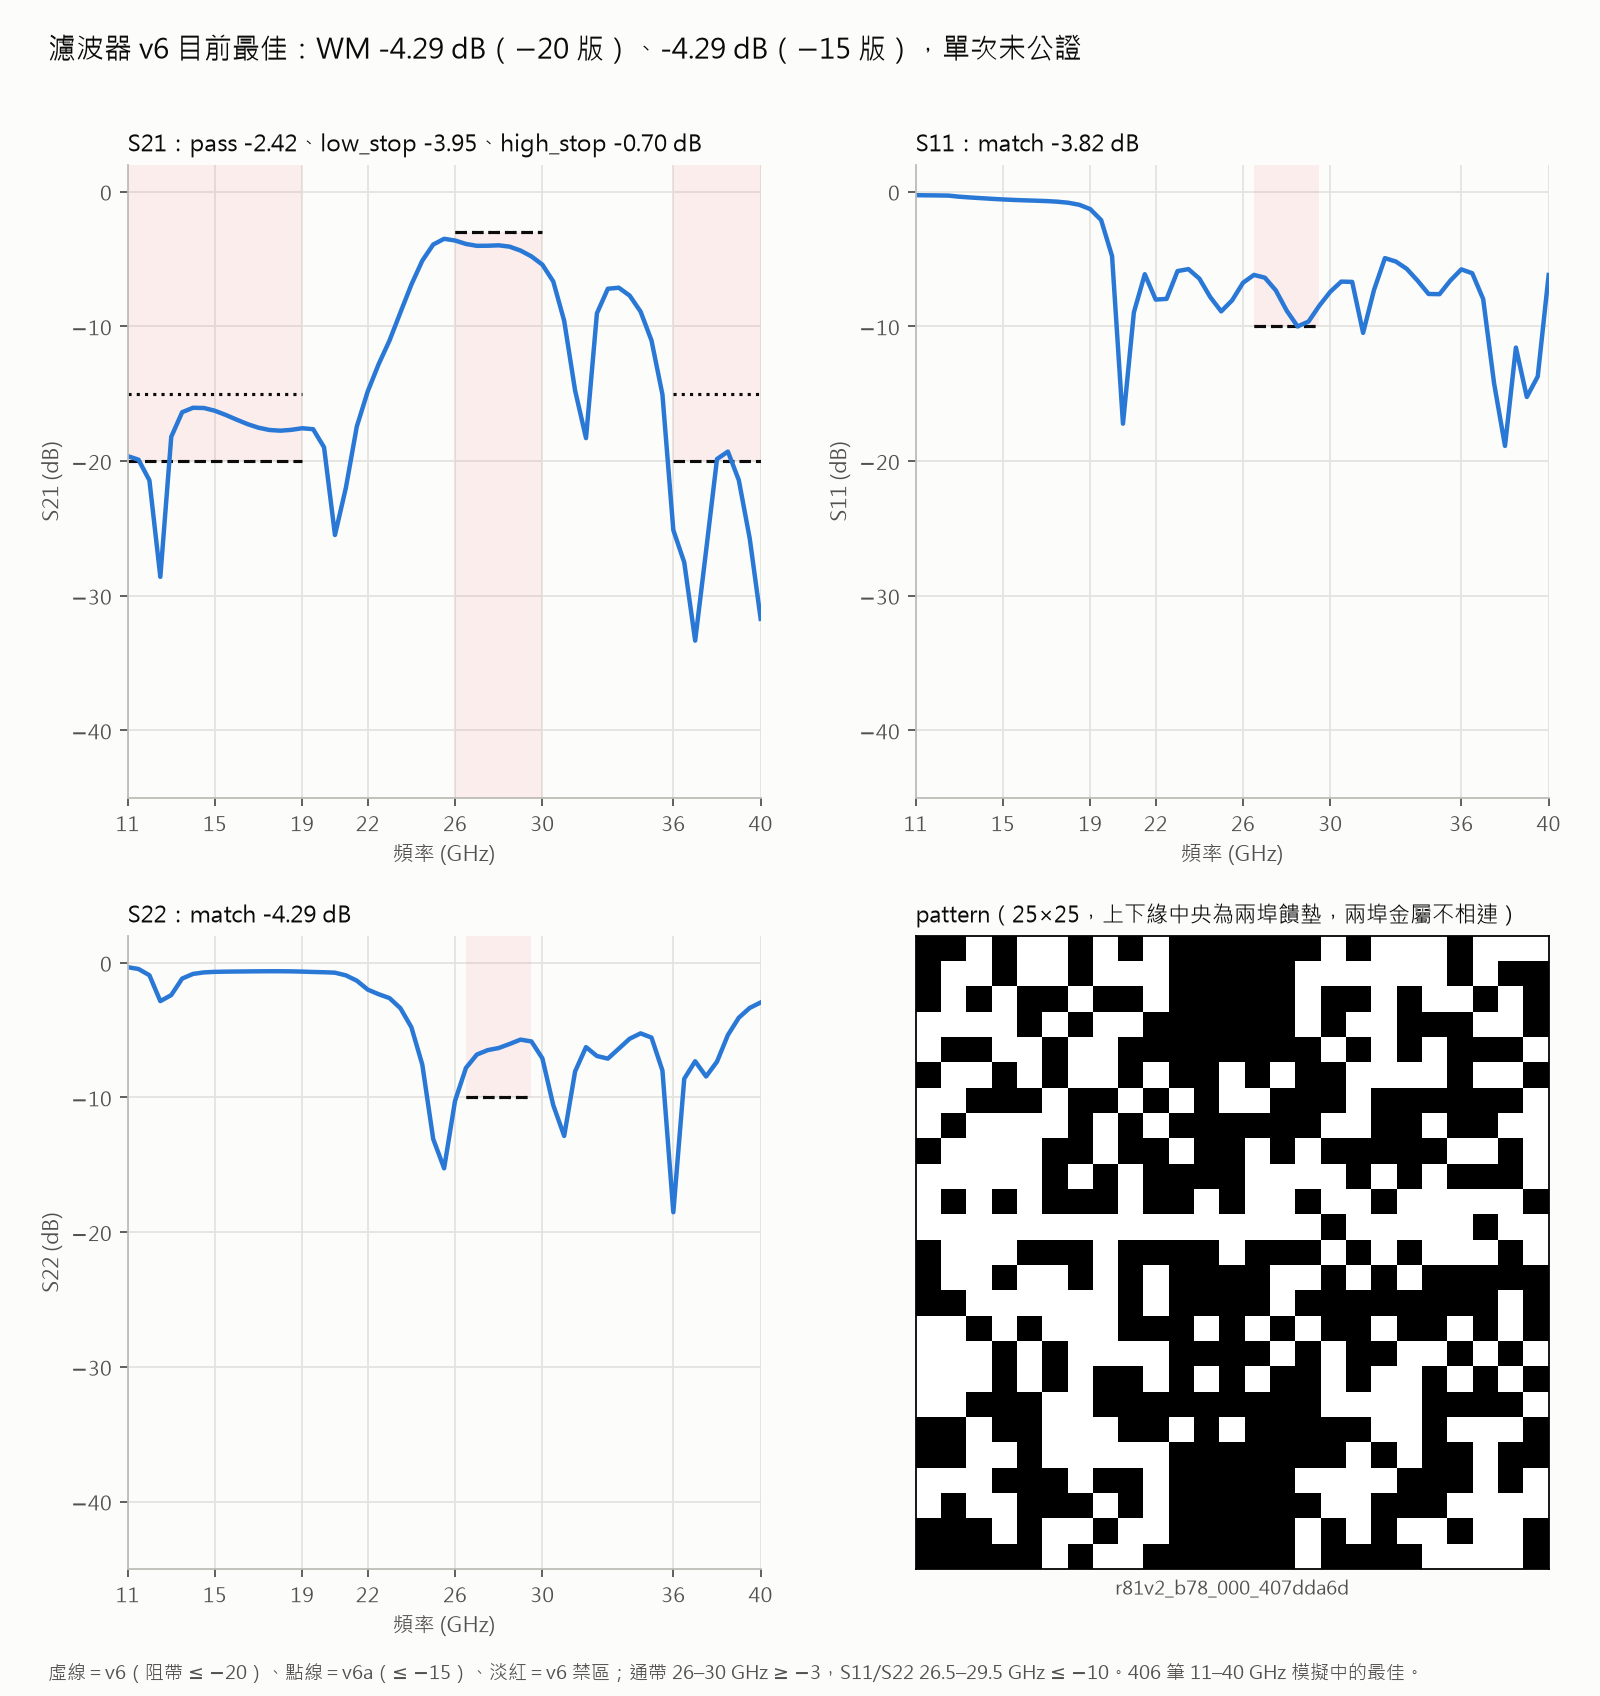
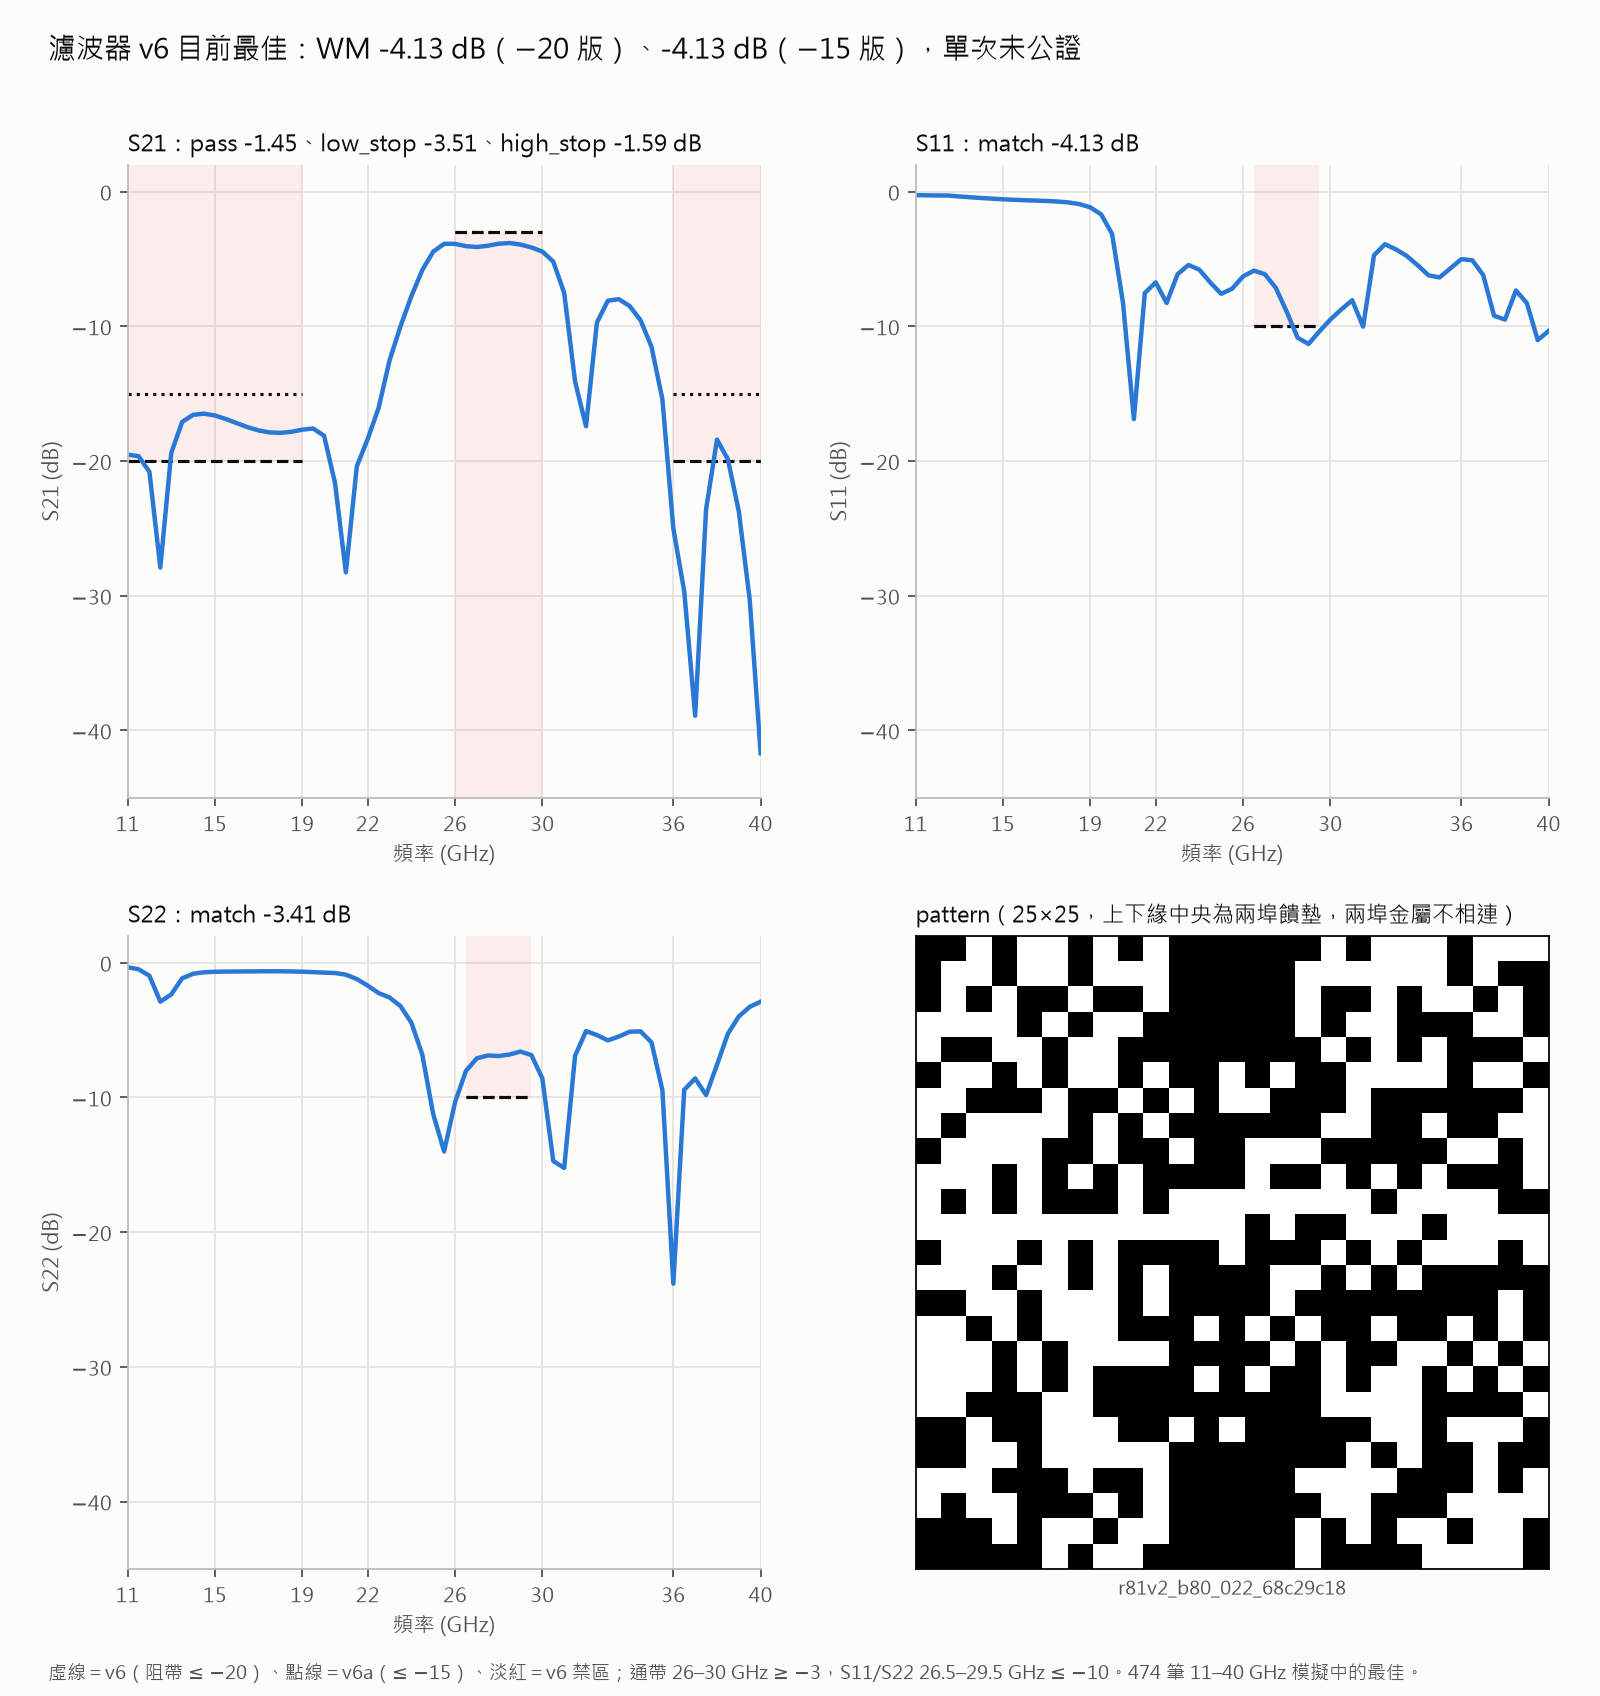
log(r81/r82): v6 −4.13（單次，push）；加抽寬頻配對回測自身前半 ρ 0.23 仍未達判準；對稱 b07 恢復排程

diff --git a/docs/log/round-81-wide-filter.md b/docs/log/round-81-wide-filter.md
@@ -571,3 +571,10 @@ Ricky 要求 S11、S22 一起達標（沿用 R81 原匹配條件 26.5–29.5 GHz
 - 結論：零成本錨定只小幅改善（誤差少約 0.3 dB、小步排序 0.16→0.30），預測前半段仍排不出高下，每批取前 5 的實測平均 −7.46→−7.14、取前 10 反而 −7.18→−7.35。錨定後仍偏樂觀 2.3 dB——不是父代共同偏差，而是 SM 預測「翻幾格的變化量」本身就錯（訓練目標是絕對曲線，變化量是兩次預測相減的殘差）。
 - 限制：評估集是原始 SM 選出來的候選（有選樣偏差），錨定若實際用來選樣會挑到不同的設計，離線無法完全評估。
 - 下一步（Ricky 同意的第 2 步）：直接以實測配對訓練「變化量模型」（輸入父代圖、翻轉位置、父代實測曲線 → 輸出曲線變化），配對距離分層取樣到 50 格內，按設計整筆留出與按時間切分驗證、按距離分組報告；第 3 步上下文接龍（多筆鄰居、多種上下文挑法）待第 2 步成立再做。
+
+## 2026-10-19 21:04：b78–b80 推移持續出最佳，v6 −4.13（單次）
+
+- b78 前 3 名全為 push（−4.25／−4.28／−4.29）；b79 最佳 −4.76 無進展；b80 `r81v2_b80_022_68c29c18`（push，random 臂，父 `b76_019`）WM **−4.13**：通帶 −1.45、低阻 −3.51、高阻 −1.59、S11 −4.13、S22 −3.41。前 3 名（−4.13／−4.22／−4.24）全為 push。
+- 最佳來自 random 臂，再次說明 SM 在好設計之間排不準（R82 在處理）。
+- 對稱天線 b07 自 10/16 起因 prio 1 排在 v6 後面從未輪到；`r80scb07s1` 調為 prio −2（釘 218），慢速探索恢復，其餘兩片維持 prio 1。
+- 圖已更新：`assets/round-81/r81v6_climb.png`、`r81v6_best_card.png`。

diff --git a/docs/log/round-82-delta-surrogate.md b/docs/log/round-82-delta-surrogate.md
@@ -74,6 +74,19 @@
 - 限制：評估集是原始 SM 選出的候選，有選樣偏差；148 筆小樣本。
 - 調整（跑中）：寬頻真值當查詢時加抽 128 次、權重 10（`--wide-draws 128 --wide-weight 10`），看好設計上的準度能否追上。
 
+### 2026-10-19 21:04：加抽寬頻配對（`--wide-draws 128 --wide-weight 10`，配對 43–45 萬）
+
+| 指標 | 原始 SM | CNN（前版） | CNN 加抽寬頻 |
+|---|---|---|---|
+| 全部 ρ／MAE | 0.36／3.15 | **0.49**／**2.30** | 0.45／2.39 |
+| 實際 WM > −8 的 ρ／MAE | 0.40／0.98 | 0.34／1.14 | **0.40**／1.01 |
+| 自己預測前半 ρ（判準 ≥ 0.30） | 0.15 | 0.16 | **0.23** |
+| 每批前 5 實測平均（判準優於 −7.46） | −7.46 | −6.89 | **−6.83** |
+| 偏差 | −2.99 | −1.05 | −1.16 |
+
+- 好設計上追平原始 SM，自身前半 ρ 0.16→0.23，仍未達 0.30；判準②持續通過。S1 仍為部分通過。
+- 資料用量：≤50 格的可能配對約 3,850 萬組（寬頻之間約 90 萬組），目前每次訓練只抽 43–45 萬組（約 1%）。下一個改進：每個 epoch 重抽配對，讓 30 個 epoch 看到上千萬組不同配對，不增加記憶體與單 epoch 時間。資訊量的上限仍是 2.3 萬筆不同設計（11–40 GHz 完整的只有 436 筆）。
+
 ## 5. 結論 (Conclude)
 
 ## 6. 後續決策 (Next)
